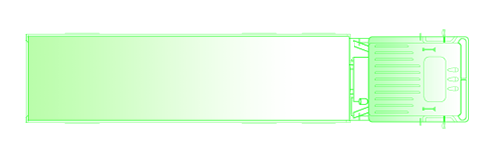
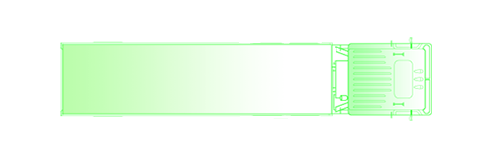
client: заменена статика int_9800 и переверстан оружейник под нее

Changed region(s): [[0.0305, 0.1783, 0.9756, 0.8153]]

diff --git a/sublayers_common/static/content/mobiles/cars/cargo/tractors/international_9800/armorer_car.html b/sublayers_common/static/content/mobiles/cars/cargo/tractors/international_9800/armorer_car.html
@@ -25,17 +25,17 @@
 
     .shift-for-journal_{{ car.node_html() }} {margin: -158px 0 0 0;}
 
-    .top_slot_FL_{{ car.node_html() }} { top: 82px; left: 322px; }
-    .side_slot_FL_{{ car.node_html() }} { top: 247px; left: 322px; }
+    .top_slot_FL_{{ car.node_html() }} { top: 82px; left: 353px; }
+    .side_slot_FL_{{ car.node_html() }} { top: 241px; left: 353px; }
 
     .top_slot_FR_{{ car.node_html() }} { top: 82px; left: 250px; }
-    .side_slot_FR_{{ car.node_html() }} { top: 221px; left: 250px; }
+    .side_slot_FR_{{ car.node_html() }} { top: 220px; left: 250px; }
 
     .top_slot_CL_{{ car.node_html() }} { top: 0px; left: 0px; display: none; }
     .side_slot_CL_{{ car.node_html() }} { top: 0px; left: 0px; display: none; }
 
     .top_slot_CC_{{ car.node_html() }} { top: 82px; left: 170px; }
-    .side_slot_CC_{{ car.node_html() }} { top: 221px; left: 170px; }
+    .side_slot_CC_{{ car.node_html() }} { top: 220px; left: 170px; }
 
     .top_slot_CR_{{ car.node_html() }} { top: 0px; left: 0px; display: none; }
     .side_slot_CR_{{ car.node_html() }} { top: 0px; left: 0px; display: none; }
@@ -44,7 +44,7 @@
     .side_slot_BL_{{ car.node_html() }} { top: 0px; left: 0px; display: none; }
 
     .top_slot_BC_{{ car.node_html() }} { top: 82px; left: 95px; }
-    .side_slot_BC_{{ car.node_html() }} { top: 221px; left: 95px; }
+    .side_slot_BC_{{ car.node_html() }} { top: 220px; left: 95px; }
 
     .top_slot_BR_{{ car.node_html() }} { top: 0px; left: 0px; display: none; }
     .side_slot_BR_{{ car.node_html() }} { top: 0px; left: 0px; display: none; }
